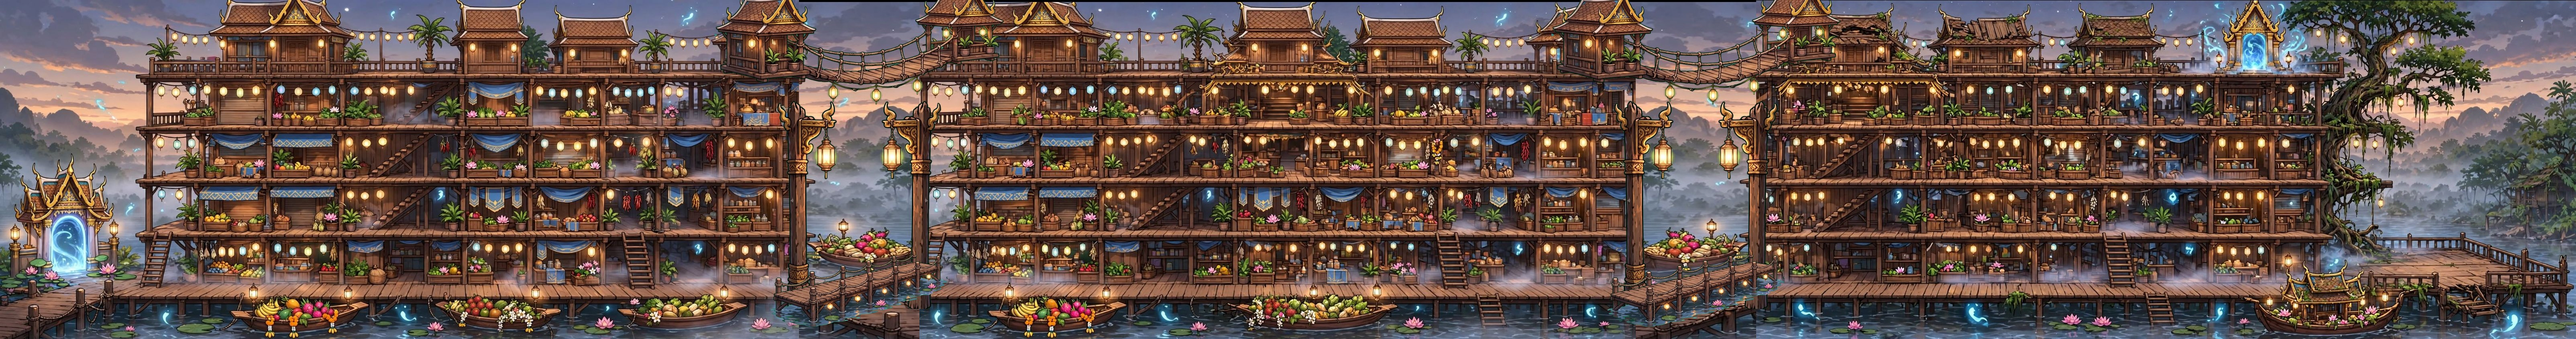
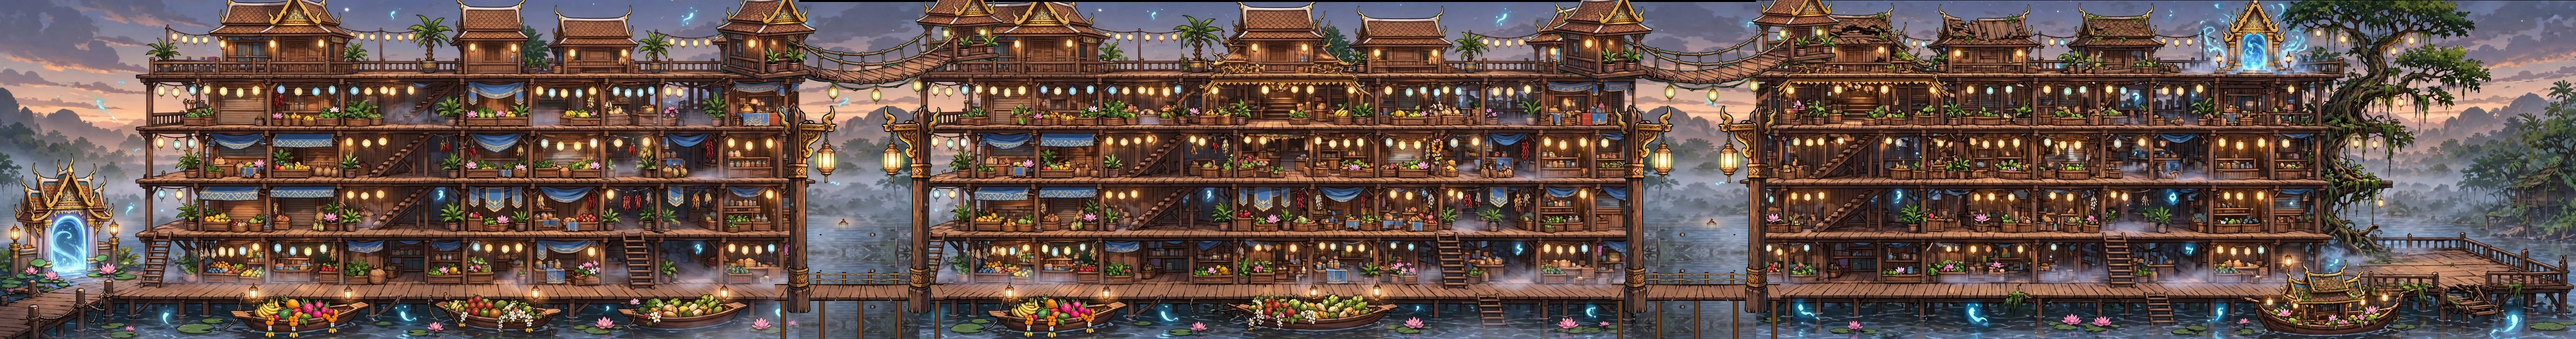
Thai map 2: straight bridge, clean canal gaps, old previews removed
Claude-Session: https://claude.ai/code/session_01TXxUxQJHchkyxvbtS4Cbim

diff --git a/tools/art/thai_map2_preview.py b/tools/art/thai_map2_preview.py
@@ -1,0 +1,53 @@
+# Thai map 2 (floating market) preview: Meta's 3 pictures as 3 separate blocks, canals between them, a straight boardwalk bridge
+# below and Meta's rope bridge with huts on the roofs, carved lantern posts over the joins (owner: "แยกออก ละทำสะพานเชื่อม").
+#   python3 tools/art/thai_map2_preview.py  -> art/incoming/thai/map2/meta_bridges.jpg
+from PIL import Image, ImageDraw
+import numpy as np
+D='art/incoming/thai/map2/'; S='/tmp/claude-0/-home-user-last-signal-pvp/4afdd359-3ed6-58f4-972b-1cb5e61c151e/scratchpad/'
+L,M,R=[Image.open(D+f'meta_{n}.jpg').convert('RGB') for n in ['left','mid','right']]
+H=860
+def place(im,s,dy):
+    im=im.resize((round(im.width*s),round(im.height*s)),Image.LANCZOS); c=Image.new('RGB',(im.width,H)); c.paste(im,(0,dy)); return c
+L2,M2,R2=place(L,1,0),place(M,1,5),place(R,1.021,1)
+# canal gap: sky / hills / mist from the open end of the middle picture down to y 550 (above its boat and old pier);
+# below: clean misty canal water from the right picture (between the big tree and the broken pier), tiled with mirrored rows, darker going down
+top=np.array(M2.crop((1805,0,2000,H)).resize((300,H))).astype(float)
+w=np.array(R.crop((1540,525,1840,570))).astype(float); rows=[]
+while sum(r.shape[0] for r in rows)<H: rows.append(w if len(rows)%2==0 else w[::-1])
+wat=np.concatenate(rows,0)[:H]
+y0=550; t=np.clip((np.arange(H)-y0)/24,0,1)[:,None,None]
+f=top*(1-t)+wat*t
+dark=np.clip((np.arange(H)-600)/245,0,1)[:,None,None]*.35; f=f*(1-dark)
+fill=Image.fromarray(f.clip(0,255).astype(np.uint8))
+deck=M.crop((540,701,760,743)).convert('RGBA')
+OL=(34,20,12,255); WOOD=(104,66,38,255); WOOD2=(132,86,48,255); ROPE=(206,176,116,255)
+def bridge(W=420, top=70):
+    b=Image.new('RGBA',(W,top+deck.height+110),(0,0,0,0)); d=ImageDraw.Draw(b)
+    for px in range(14,W-10,96): d.rectangle((px,top+deck.height-6,px+13,b.height-4),fill=WOOD,outline=OL,width=2)
+    x=0; i=0
+    while x<W: b.alpha_composite(deck if i%2==0 else deck.transpose(Image.FLIP_LEFT_RIGHT),(x,top)); x+=deck.width; i+=1
+    d.line((0,top,W,top),fill=OL,width=2)
+    for px in range(40,W-30,64): d.rectangle((px,top-30,px+8,top+2),fill=WOOD2,outline=OL,width=2)
+    for k in (26,13):
+        pts=[(cx,top-k+3*np.sin((cx-40)/64*np.pi)**2) for cx in range(40,W-24,4)]; d.line(pts,fill=OL,width=4); d.line(pts,fill=ROPE,width=2)
+    return b
+parts=[L2.crop((0,0,1990,H)),fill,M2.crop((12,0,1796,H)),fill.transpose(Image.FLIP_LEFT_RIGHT),R2]
+O=Image.new('RGBA',(sum(p.width for p in parts),H)); x=0; gaps=[]
+for i,p in enumerate(parts):
+    O.paste(p,(x,0))
+    if i in (1,3): gaps.append((x,x+p.width))
+    x+=p.width
+P={k:Image.open(D+f'cut_{k}.png') for k in ['rope','post']}
+def put(im,w,x,bottom,flip=False):
+    h=round(im.height*w/im.width); im=im.resize((w,h),Image.LANCZOS)
+    if flip: im=im.transpose(Image.FLIP_LEFT_RIGHT)
+    O.alpha_composite(im,(round(x),round(bottom-h)))
+br=bridge()
+for a_,b_ in gaps:
+    c=(a_+b_)/2; pw=round(P['post'].width*520/P['post'].height)
+    O.alpha_composite(br,(round(c-210),708-70))
+    put(P['post'],pw,a_-pw*.35,780); put(P['post'],pw,b_-pw*.65,780,True)
+    put(P['rope'],720,c-360,262)
+O=O.convert('RGB').crop((0,0,O.width,845)); O.save(D+'meta_bridges.jpg',quality=88)
+O.crop((1650,0,2650,845)).resize((750,634)).save(S+'fin.jpg')
+O.crop((3750,0,4750,845)).resize((750,634)).save(S+'fin2.jpg')

diff --git a/docs/action-game.md b/docs/action-game.md
@@ -1563,3 +1563,4 @@ Open: redo campfire / fence / firewood / fern tree (4 credits) or clean them (ow
 - Bridge pieces prompt for Meta (plank bridge, rope bridge, end post, dock): `art/incoming/thai/map2/PROMPT_META_bridges.txt`.
 - Meta bridge kit came back (owner pasted, stored `art/incoming/thai/map2/meta_bridges_kit.jpg`): plank bridge, rope bridge with a hut on each end, carved lantern post, dock + fruit boat. Cut by "greener than red / blue" (kills the green glow round the lanterns) into `cut_*.png`; put into the preview `meta_bridges.jpg`: posts at the building ends, plank bridge on the boardwalk, rope bridge huts on the two roofs. The plank bridge and dock are drawn a little from above (3/4 view), not straight from the side.
 - Owner "ทำไมไม่พาดตรงๆ ไปเลย หรือสะพานโค้งก็ได้": the 3/4-view plank bridge dropped; the lower bridge is now the market boardwalk deck cut from Meta's own middle picture (side view, same style) laid across the canal, with stilts + rope rail drawn in code. Two versions: `meta_bridges_straight.jpg`, `meta_bridges_arch.jpg` (40 px arch); close-up `bridge_straight_vs_arch.jpg`. Waiting for the owner's pick.
+- Owner "ทำอะไรก็ทำให้มันเนียน ละลบอันเก่าออก": picked the STRAIGHT lower bridge (same level as the boardwalks); the canal gaps are cleaned (old pier + stretched boat gone: sky / mist from the middle picture above y 550, clean misty water from the right picture below); posts stand over the joins. Made by `tools/art/thai_map2_preview.py` -> `art/incoming/thai/map2/meta_bridges.jpg`. Old previews removed (straight / arch variants, compare, meta_joined, cut_plank); Meta raw pictures kept.
